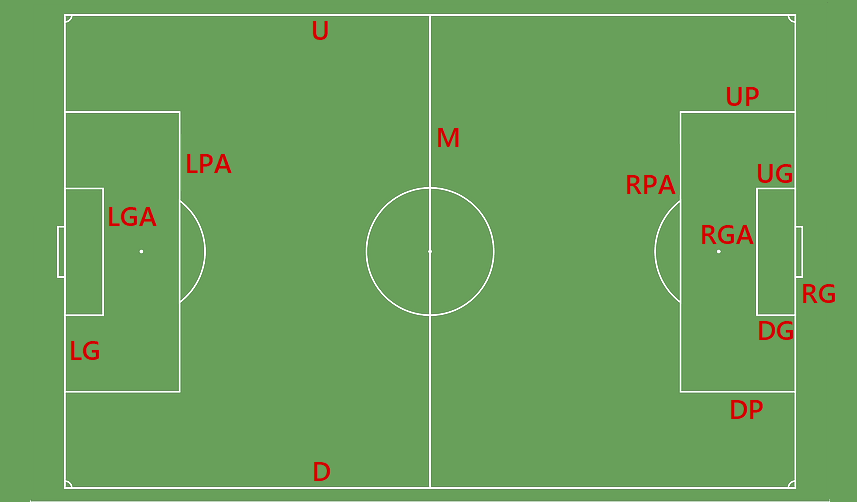
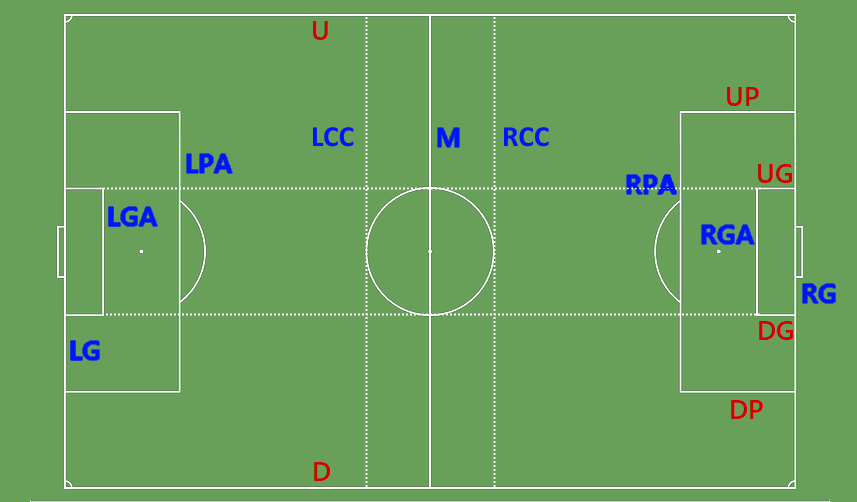
Added more reference lines

diff --git a/helpers.py b/helpers.py
@@ -2,7 +2,7 @@ import cv2
 import numpy as np
 from shapely.geometry import Polygon
 from itertools import product
-from PIL import Image, ImageDraw
+from PIL import Image, ImageDraw, ImageChops
 
 class Homography():
     def __init__(self, pts_src, pts_dst):
@@ -86,6 +86,10 @@ class PitchImage():
             else:
                 fill_color=(0,0,255,opacity)
             draw.polygon(list(tuple(point) for point in polygon.tolist()), fill=fill_color, outline='gray')
+
+        pitch_mask = get_edge_img(base_image)
+        polygon_image.putalpha(Image.fromarray(np.minimum(pitch_mask, np.array(polygon_image.split()[-1]))))
+
         return Image.alpha_composite(base_image.convert("RGBA"), polygon_image)
 
 
@@ -126,3 +130,13 @@ def get_polygon(points, image, convert):
     else:
         polygon = np.vstack(polygon.exterior.xy).T
     return polygon
+    
+def get_edge_img(img, sensitivity=25):
+    hsv_img = cv2.cvtColor(np.array(img), cv2.COLOR_BGR2HSV)
+    median_hue = np.median(hsv_img[:,:,0])
+
+    min_filter = np.array([median_hue - sensitivity, 50, 50])
+    max_filter = np.array([median_hue + sensitivity, 200, 200])
+
+    mask = cv2.inRange(hsv_img, min_filter, max_filter)
+    return mask

diff --git a/pitch.py b/pitch.py
@@ -35,7 +35,9 @@ class FootballPitch(Pitch):
                            'M': self.X_SIZE/2,
                            'RPA': self.X_SIZE-self.BOX_WIDTH,
                            'RGA': self.X_SIZE-self.GOAL_AREA_WIDTH,
-                           'RG': self.X_SIZE
+                           'RG': self.X_SIZE,
+                           'RCC': self.X_SIZE/2+9.15,
+                           'LCC': self.X_SIZE/2-9.15
                            }
 
         self.horiz_lines =  {'DG': self.BOX_HEIGHT,

diff --git a/birdspyview.py b/birdspyview.py
@@ -57,7 +57,8 @@ if image_to_open:
                 st.image(image.conv_im)
 
             st.title('Players')
-            st.write('Draw rectangle over players on image')
+            st.write('Draw rectangle over players on image. '+
+                     'The player location is assumed to the middle of the base of the rectangle.')
 
             p_col1, p_col2, p_col_, p_col3 = st.beta_columns([2,1,0.5,1])
 
